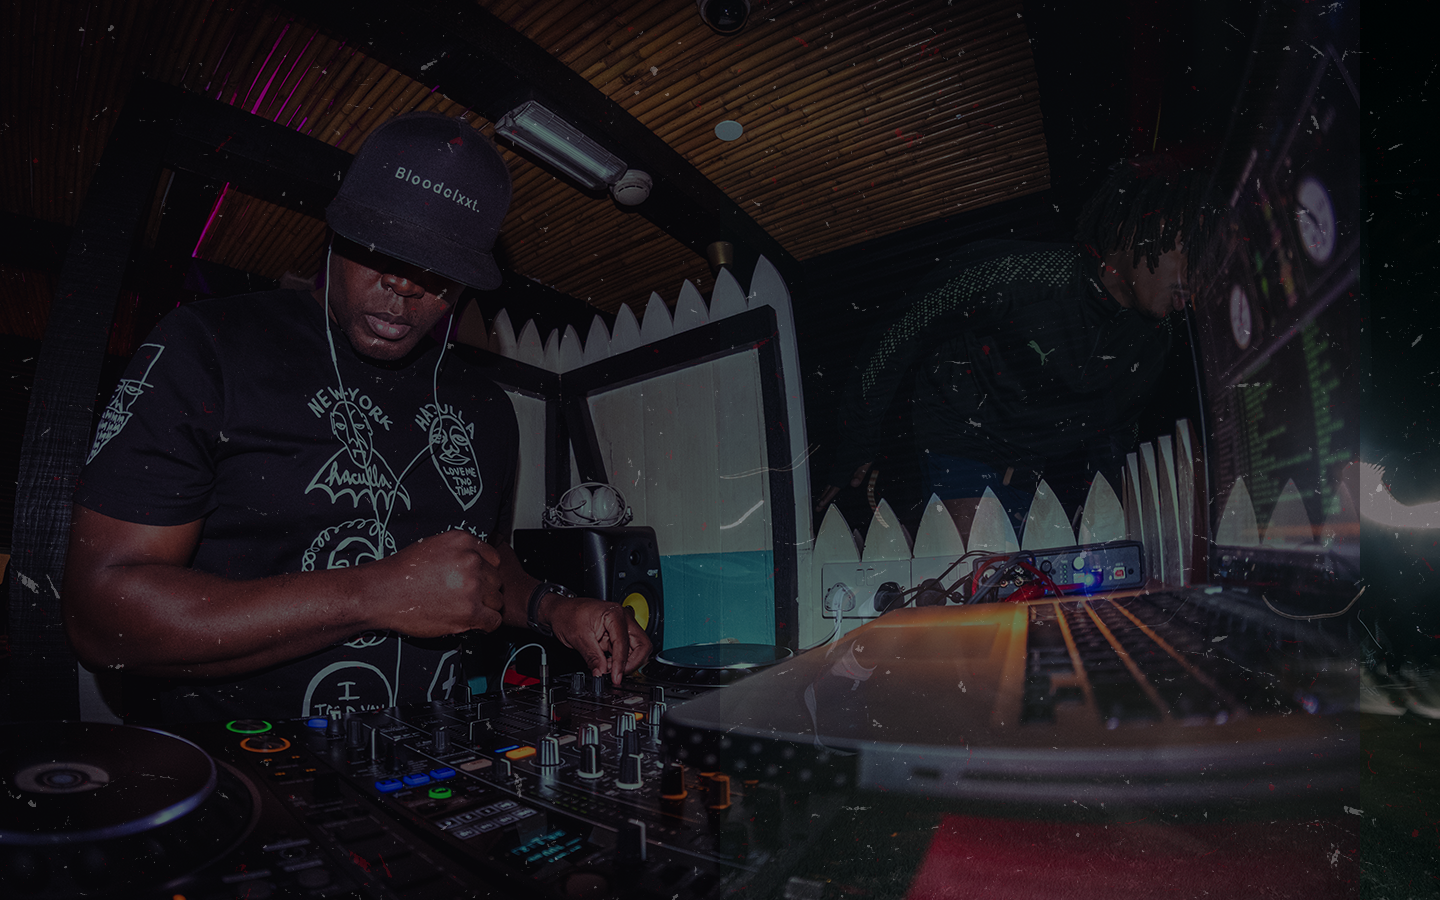
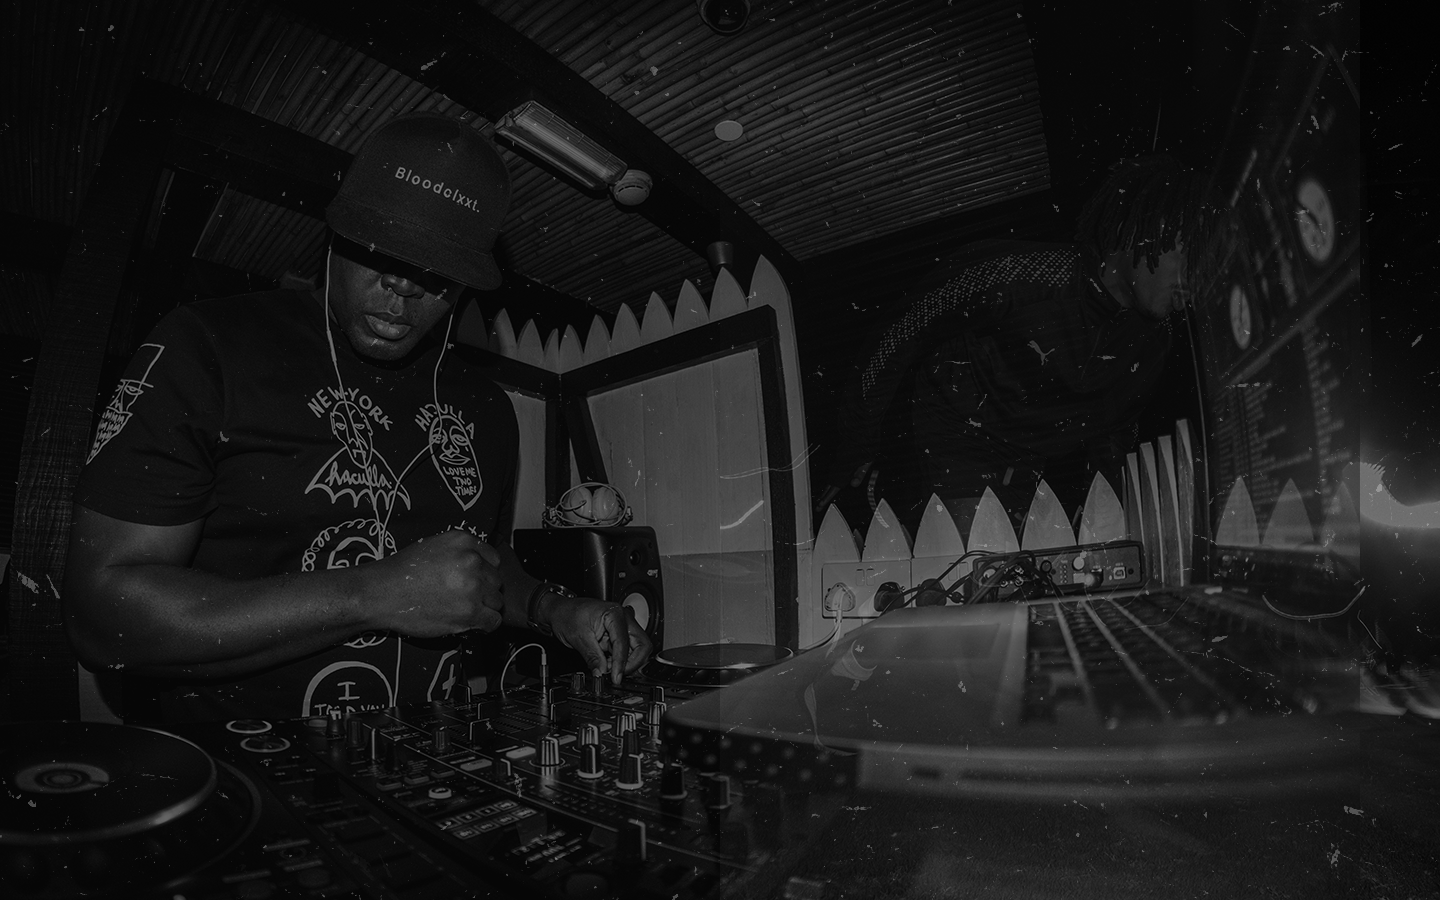
home bg colors and overs with multiply

diff --git a/assets/styles/pages/homepage.less b/assets/styles/pages/homepage.less
@@ -3,10 +3,8 @@ body, html {
 }
 
 #homepage {
-  background: no-repeat center center fixed;
   background-color: black;
-  background-image: url(/images/highbeamsdubai-home-background.png);
-  background-size: cover;
+
   a:not(.btn) {
     color: @brand;
     border-bottom: 1px solid @text-normal;
@@ -21,6 +19,62 @@ body, html {
     padding-bottom: 25px;
     color: @brand;
     position: relative;
+    .home-btn {
+      width: 50%;
+      min-height: 100%;
+      position: absolute;
+      top: 0;
+      background-size: cover;
+      
+      .party {
+        position: absolute;
+        width: 226px;
+        height: 47px;
+        left: 50%;
+        top: 50%;
+        margin-left: -113px;
+        background-repeat: no-repeat;
+        background-position: 0 0;
+        background-image: url(/images/highbeamsdubai-home-party-btn.png);
+        cursor: pointer;
+      }
+      .run {
+        position: absolute;
+        width: 226px;
+        height: 50px;
+        top: 50%;
+        left: 50%;
+        background-repeat: no-repeat;
+        background-position: 0 0;
+        background-image: url(/images/highbeamsdubai-home-run-btn.png);
+        cursor: pointer;
+        margin-left: -113px;
+      }
+
+     &:hover {
+        background-blend-mode: multiply;
+      background-color: rgb(255,0,0);
+        .party {
+          background-position: 0px -49px;
+        }
+        .run {
+          background-position: 0px -50px;
+        }
+
+    }
+
+  }
+    .parties-btn {
+      background-image: url(/images/highbeamsdubai-home-background-left.png);
+      left: 0;
+      background-position: 0% 50%;
+
+    }
+    .runs-btn {
+      background-image: url(/images/highbeamsdubai-home-background-right.png);
+      right: 0;
+      background-position: 0% 50%;
+    }
     .hero-image {
       width: 220px;
       height: 170px;
@@ -30,38 +84,7 @@ body, html {
       img {
         position: absolute;
       }
-      .party {
-        text-decoration: none;
-        border: none;
-        position: absolute;
-        width: 226px;
-        height: 47px;
-        left: -160%;
-        top: 25px;
-        background-repeat: no-repeat;
-        background-position: 0 0;
-        background-image: url(/images/highbeamsdubai-home-party-btn.png);
-        cursor: pointer;
-        &:hover {
-          background-position: 0px -49px;
-        }
-      }
-      .run {
-        text-decoration: none;
-        border: none;
-        position: absolute;
-        width: 226px;
-        height: 50px;
-        top: 25px;
-        background-repeat: no-repeat;
-        background-position: 0 0;
-        background-image: url(/images/highbeamsdubai-home-run-btn.png);
-        left: 160%;
-        cursor: pointer;
-        &:hover {
-          background-position: 0px -50px;
-        }
-      }
+      
       .logo {
         width: 123px;
         height: 74px;

diff --git a/assets/js/pages/homepage.page.js b/assets/js/pages/homepage.page.js
@@ -32,6 +32,7 @@ parasails.registerPage('homepage', {
       heightToSet = Math.max(heightToSet, 600);
       heightToSet = Math.min(heightToSet, 1000);
       $hero.css('min-height', heightToSet);
+      $('.home-btn').css('min-height', heightToSet);
       $('#page-header').hide();
       // $hero.css('min-height', heightToSet - headerHeight+'px');
       this.heroHeightSet = true;
